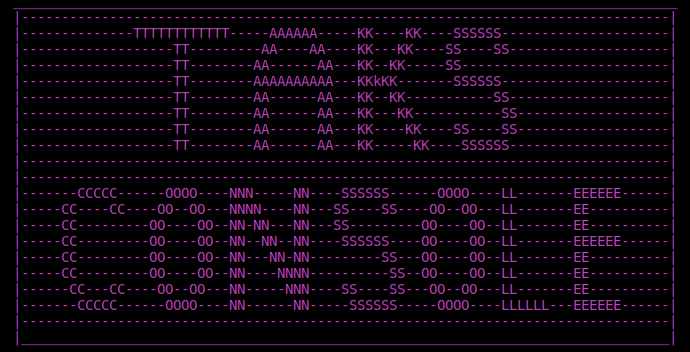
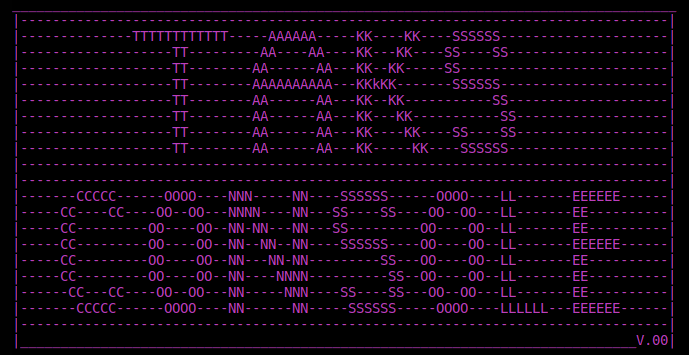
update README.md

Changed region(s): [[0.0, 0.0312, 0.9753, 0.9688], [0.9144, 0.9062, 0.9753, 1.0], [0.6705, 0.9062, 0.701, 0.9375]]

diff --git a/Components/Stard/StardingTitle.cs b/Components/Stard/StardingTitle.cs
@@ -26,7 +26,7 @@ namespace TaskConsole.Components.Stard
             Console.WriteLine("|------CC---CC----OO--OO---NN-----NNN----SS----SS---OO--OO---LL-------EE----------|");
             Console.WriteLine("|-------CCCCC------OOOO----NN------NN-----SSSSSS-----OOOO----LLLLLL---EEEEEE------|");
             Console.WriteLine("|---------------------------------------------------------------------------------|");
-            Console.WriteLine("|_________________________________________________________________________________|");
+            Console.WriteLine("|_____________________________________________________________________________V.00|");
             Console.ForegroundColor = ConsoleColor.DarkYellow;
         }
     }

diff --git a/README.md b/README.md
@@ -1,14 +1,15 @@
-
 # <img src="./Images/TitleStaks.png"/>
-<p>Aplication for add task</P>
-<li>Tasks of any type can be created, queried and deleted</li>
+<p>Application to Add, Search and delete tasks only from the console, it is planned to add AI in future versions, but it is V.00, I hope that this simplicity of the application is to your liking</P>
+
+## <li>Tasks of any type can be created, queried and deleted</li>
 <img src="./Images/Agregar.png">
 <img src="./Images/LeerFile.png">
 <img src="./Images/Delete.png">
-<li>Task spaces with local files can be created</li>
+
+## <li>Task spaces with local files can be created</li>
 <img src="./Images/filesFind.png">
 
-## Tiene sus propios comandos
+## <li> Tiene sus propios comandos
 <li>a-task = para agregar una tarea
 <li>r-task = para leer todas las tareas
 <li>d-task = Para eliminar una o varias tareas
